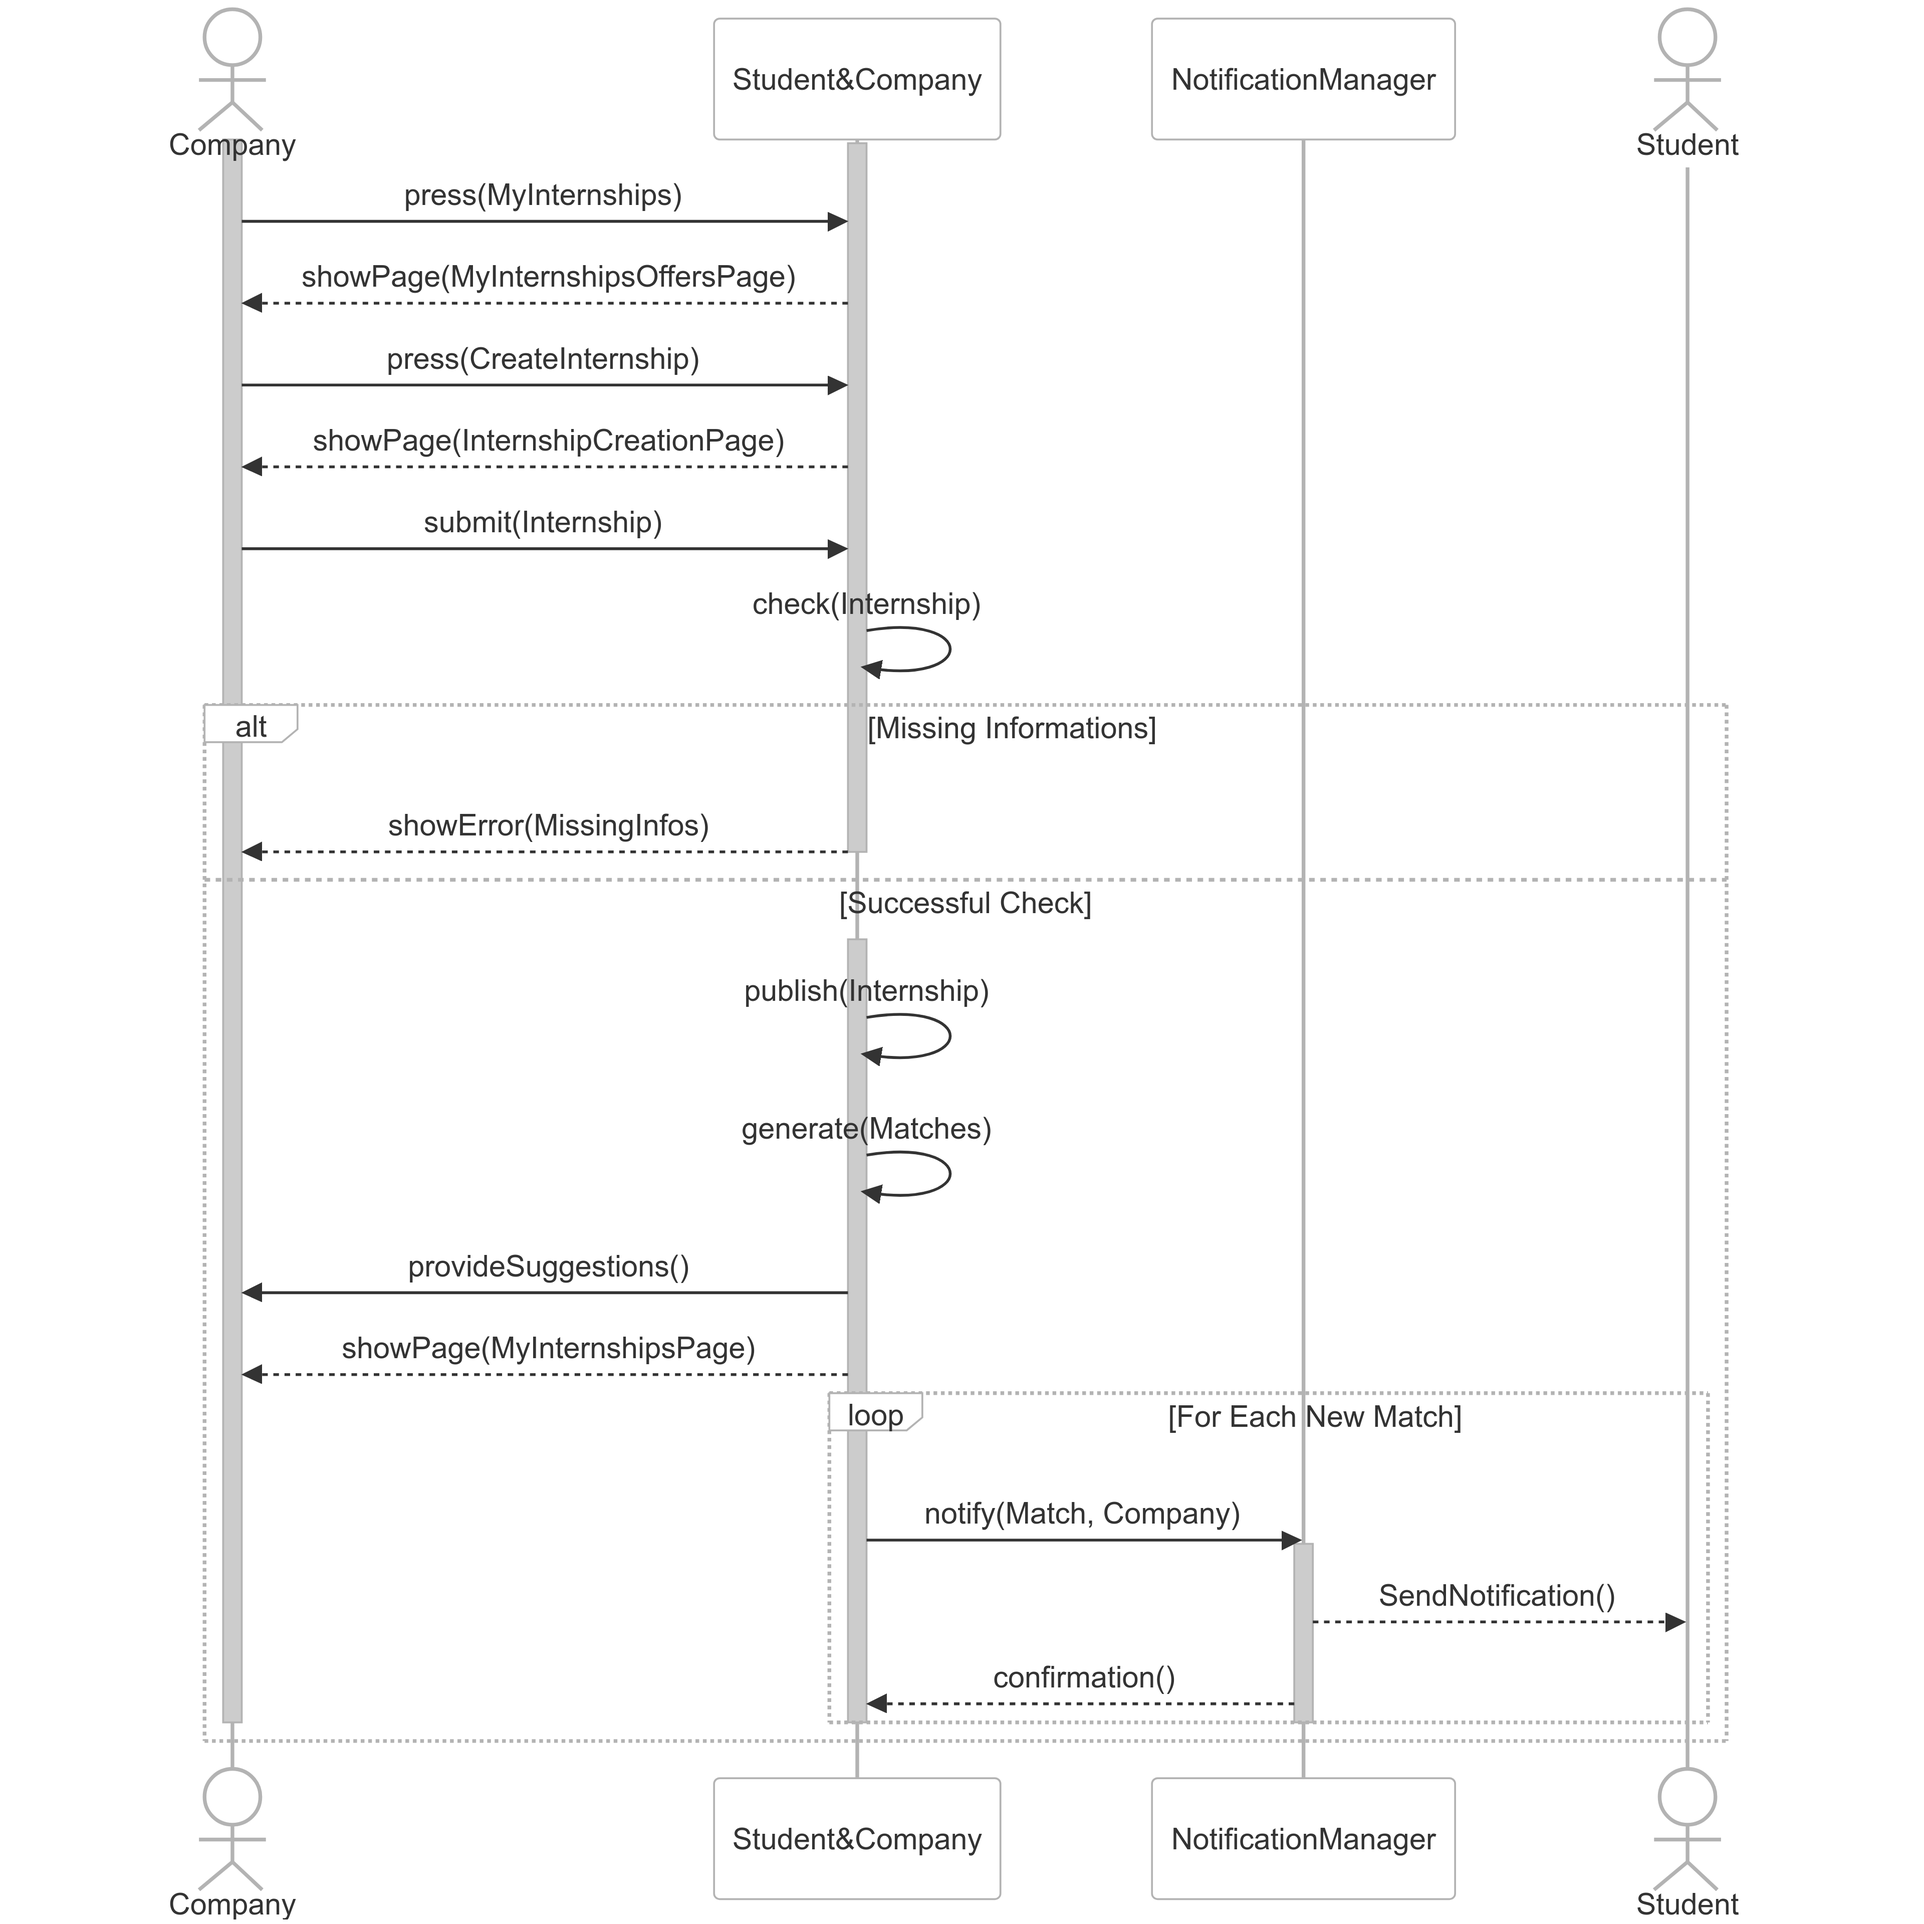
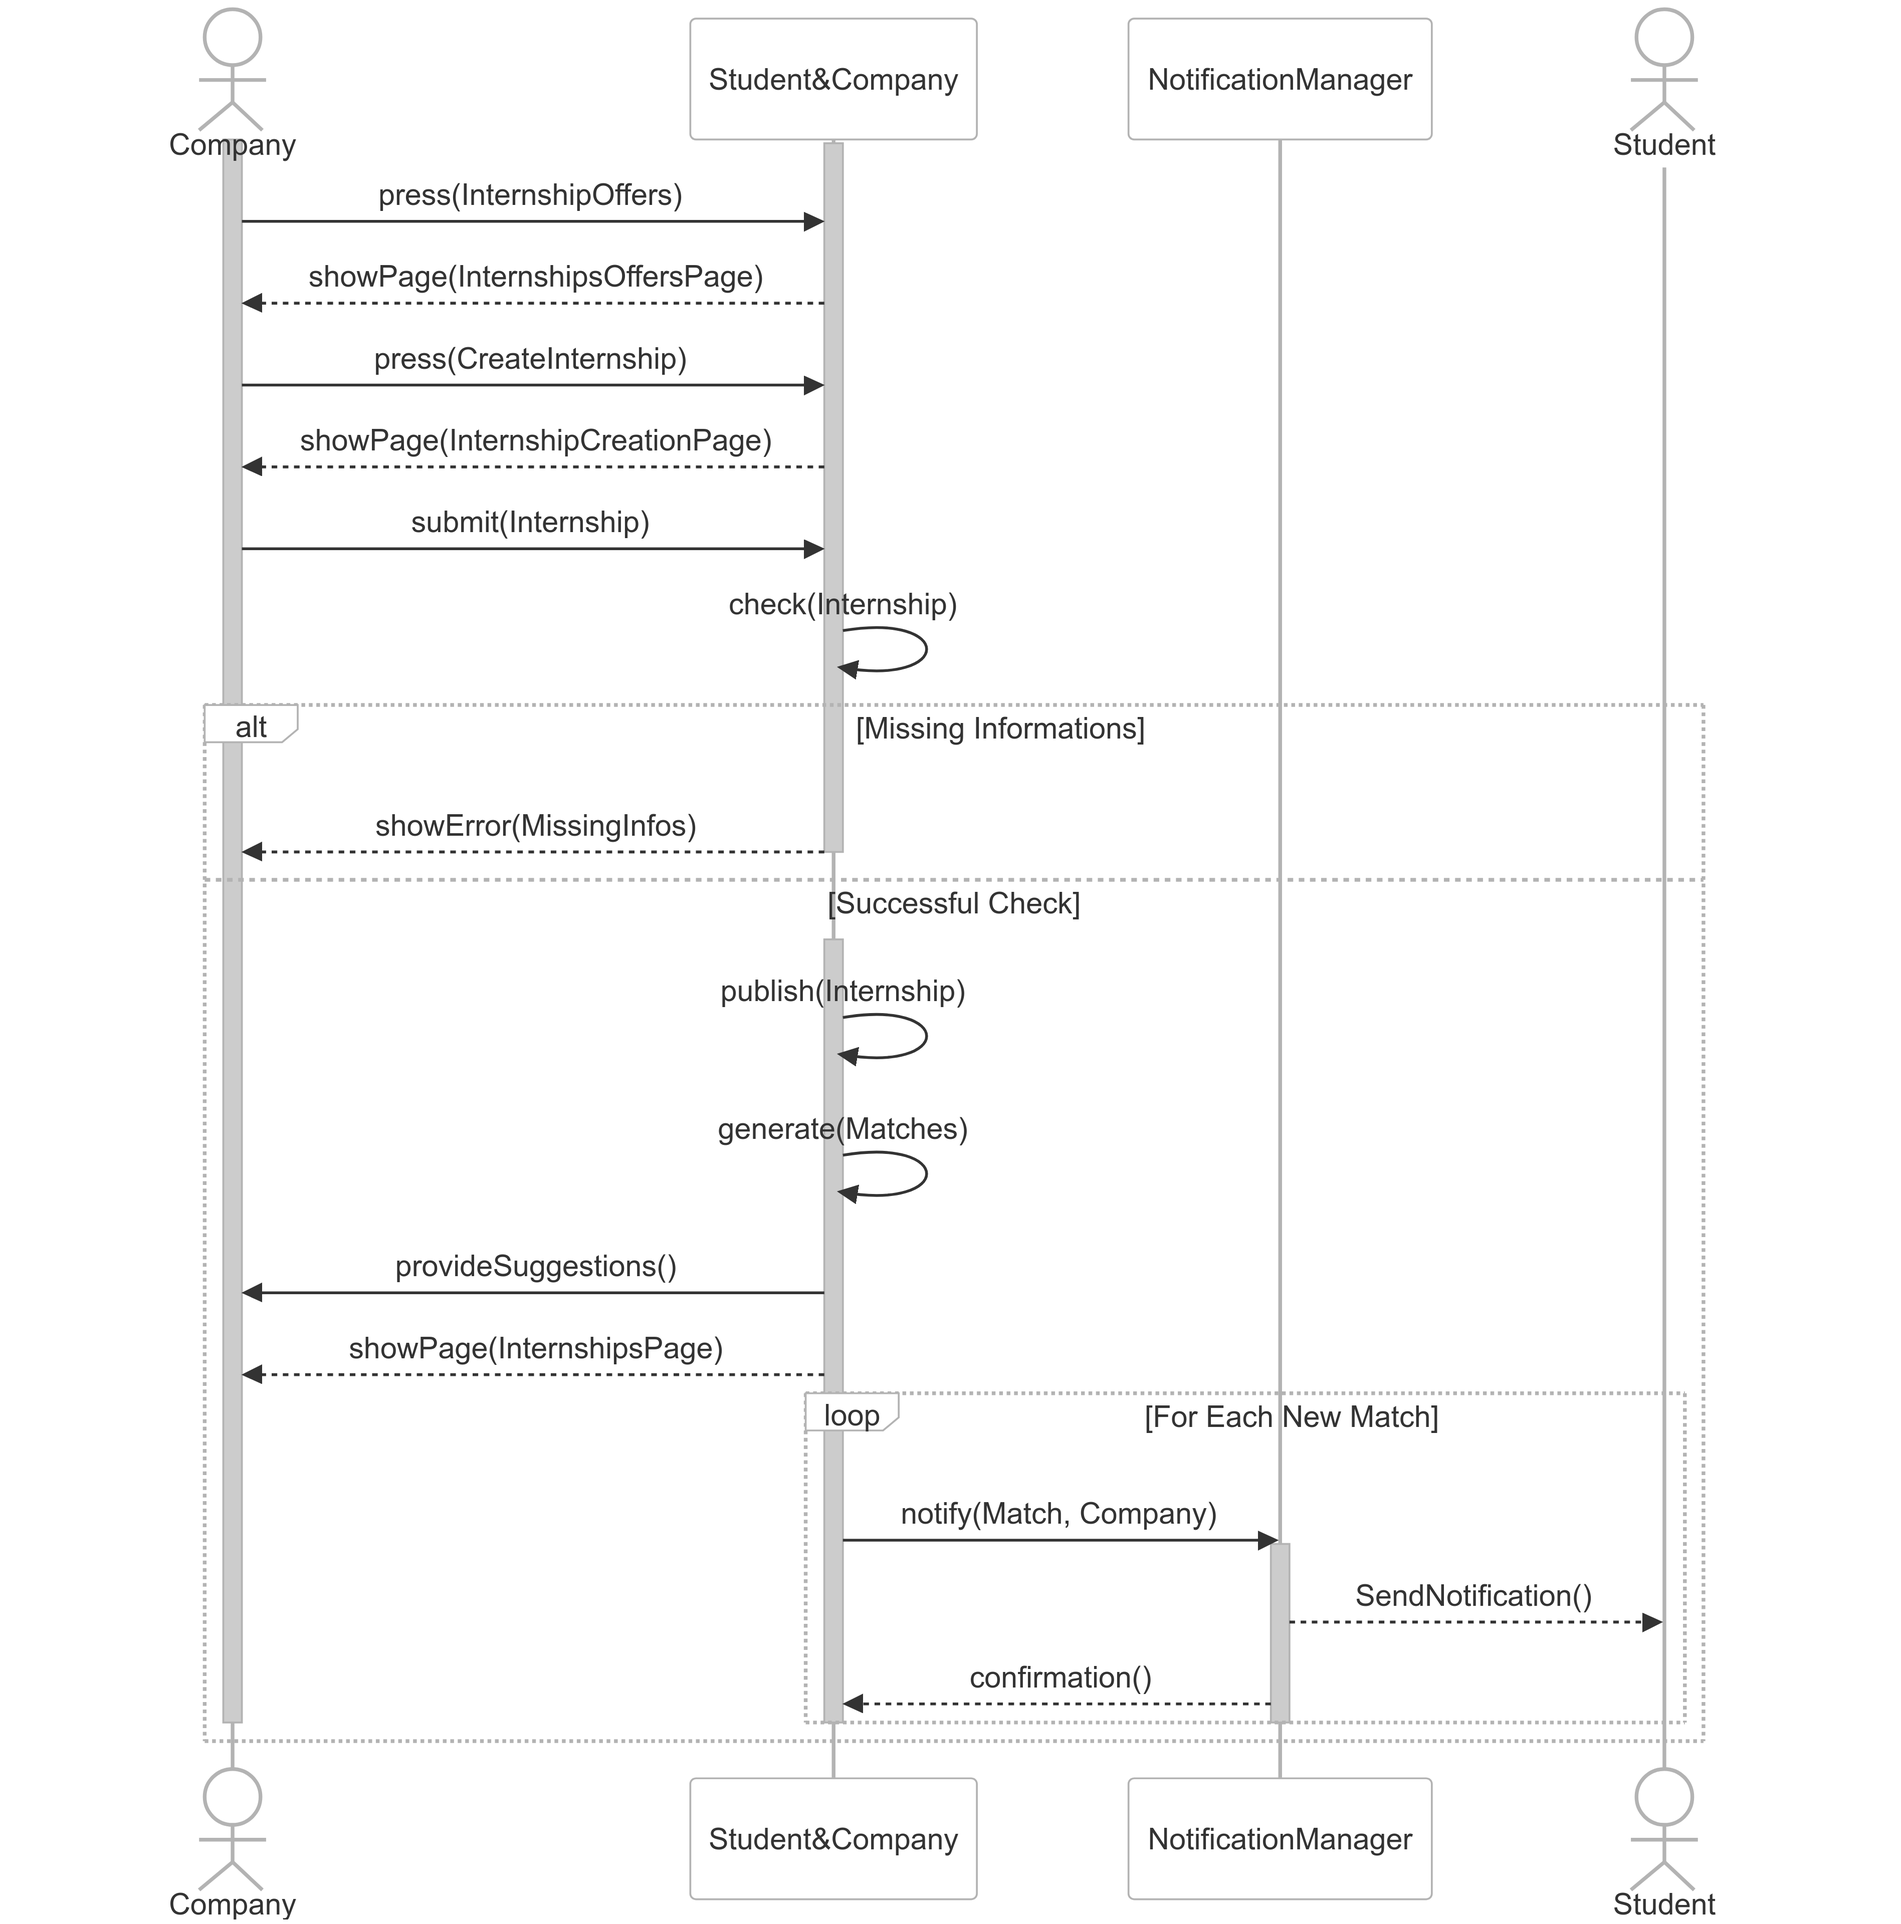
sequences refactor (MyRecommendation to RecommendationOffers)

diff --git a/Diagrams/SequenceDiagrams/SequenceDiagrams.md b/Diagrams/SequenceDiagrams/SequenceDiagrams.md
@@ -209,8 +209,8 @@ sequenceDiagram
     actor Student
     activate Company
     activate Student&Company
-    Company ->> Student&Company: press(MyInternships)
-    Student&Company -->> Company: showPage(MyInternshipsOffersPage)
+    Company ->> Student&Company: press(InternshipOffers)
+    Student&Company -->> Company: showPage(InternshipsOffersPage)
     Company ->> Student&Company: press(CreateInternship)
     Student&Company -->> Company: showPage(InternshipCreationPage)
     Company ->> Student&Company: submit(Internship)
@@ -223,7 +223,7 @@ sequenceDiagram
         Student&Company ->> Student&Company: publish(Internship)
         Student&Company ->> Student&Company: generate(Matches)
         Student&Company ->> Company: provideSuggestions()
-        Student&Company -->> Company: showPage(MyInternshipsPage)
+        Student&Company -->> Company: showPage(InternshipsPage)
         loop For Each New Match
         Student&Company ->> NotificationManager: notify(Match, Company)
         activate NotificationManager
@@ -274,7 +274,7 @@ sequenceDiagram
     actor Participant2
     activate Participant1
     activate Student&Company
-    Participant1 ->> Student&Company: press(MyRecommendations)
+    Participant1 ->> Student&Company: press(RecommendationProcess)
     Student&Company -->> Participant1: showPage(RecommendationsPage)
     Participant1 ->> Student&Company: press(Accept)
     Student&Company ->> Student&Company: update(Matches)
@@ -302,7 +302,7 @@ sequenceDiagram
     participant Student&Company
     activate Participant
     activate Student&Company
-    Participant ->> Student&Company: press(MyRecommendations)
+    Participant ->> Student&Company: press(RecommendationProcess)
     Student&Company -->> Participant: showPage(RecommendationsPage)
     Participant ->> Student&Company: press(Accept)/press(Reject)
     Student&Company -->> Participant: showMessage(AskFeedback)
@@ -321,8 +321,8 @@ sequenceDiagram
     actor Student
     activate Company
     activate Student&Company
-    Company ->> Student&Company: press(MyInterviews)
-    Student&Company -->> Company: showPage(MyInterviewsPage)
+    Company ->> Student&Company: press(Interviews)
+    Student&Company -->> Company: showPage(InterviewsPage)
     Company ->> Student&Company: press(Student)
     Student&Company -->> Company: showPage(InterviewCreationPage)
     Company ->> Student&Company: submit(ToCompileInterview)
@@ -338,7 +338,7 @@ sequenceDiagram
         NotificationManager -->> Student: SendNotification()
         NotificationManager -->> Student&Company: confirmation()
         deactivate NotificationManager
-        Student&Company -->> Company: showPage(MyInterviewsPage)
+        Student&Company -->> Company: showPage(InterviewsPage)
         deactivate Student&Company
     end
     deactivate Company
